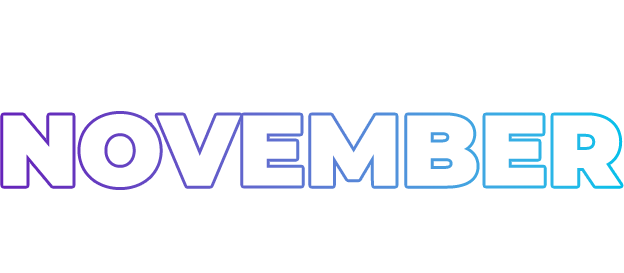
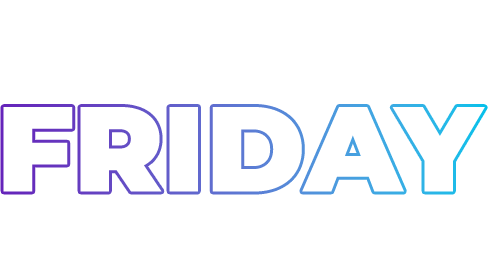
feat: altera promocao de black friday

Changed region(s): [[0.0, 0.381, 1.0, 0.7326]]

diff --git a/app/page.js b/app/page.js
@@ -61,7 +61,7 @@ export default async function Certificadora() {
         >
           <div className="col-span-4 lg:col-span-5 flex flex-col space-y-4">
             <Title appearance="h2" color={neutralLight[100]} extra>
-              Desconto de 25% Emissão de seu Certificado Digital
+              Desconto de 50% Emissão de seu Certificado Digital
             </Title>
             <Text appearance="p3" color={neutralLight[100]}>
               Aproveite HOJE mesmo!
@@ -119,7 +119,7 @@ export default async function Certificadora() {
           <div className="col-span-4 lg:col-span-12 flex flex-col lg:flex-row justify-between xl:px-16 space-y-8 lg:space-y-0">
             <div className="flex flex-col justify-center items-center">
               <Title appearance="h3" color={neutralDark[500]} extra>
-                +250 mil
+                +280 mil
               </Title>
               <Title appearance="h6" color={neutralMid[600]}>
                 certificados emitidos
@@ -143,7 +143,7 @@ export default async function Certificadora() {
             </div>
             <div className="flex flex-col justify-center items-center">
               <Title appearance="h3" color={neutralDark[500]} extra>
-                85%
+                97%
               </Title>
               <Title appearance="h6" color={neutralMid[600]}>
                 de satisfação no atendimento

diff --git a/app/WGOVKQRO/page.js b/app/WGOVKQRO/page.js
@@ -215,7 +215,7 @@ export default async function Certificadora() {
             />
           </Link>
           <Title appearance="h6" color={neutralDark[600]} extra>
-            Precisando de ajuda? 0800 941 6260
+            Precisando de ajuda? (61) 3246-2687 / (61) 98292-0102
           </Title>
         </div>
       </Container>
